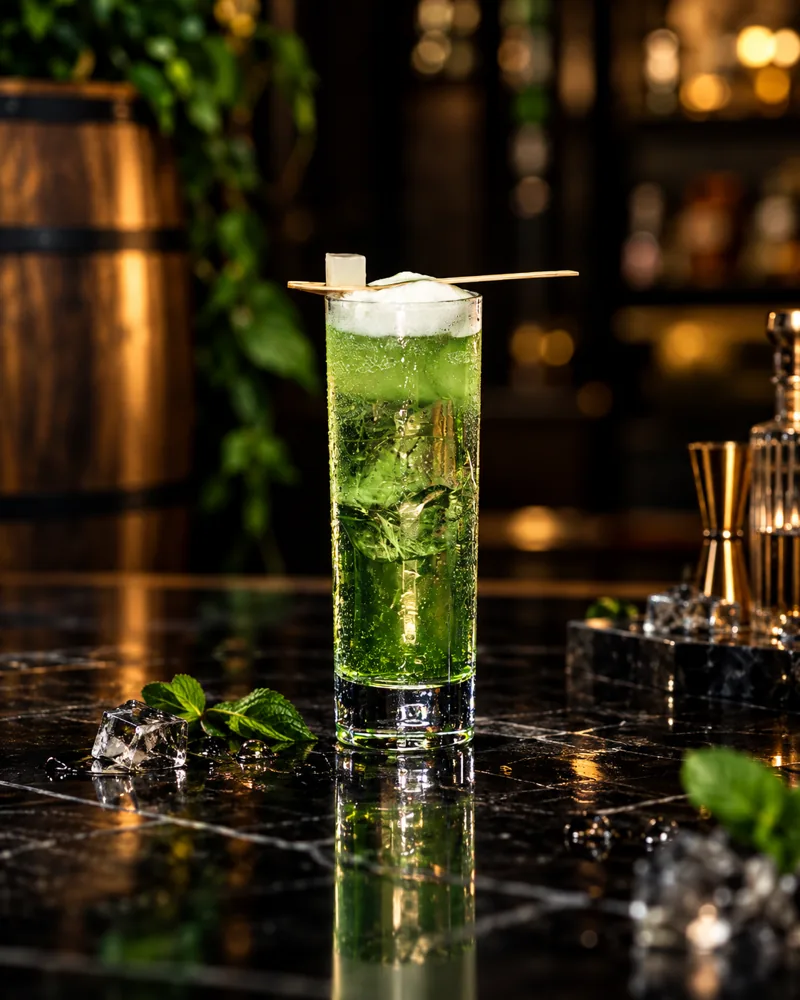
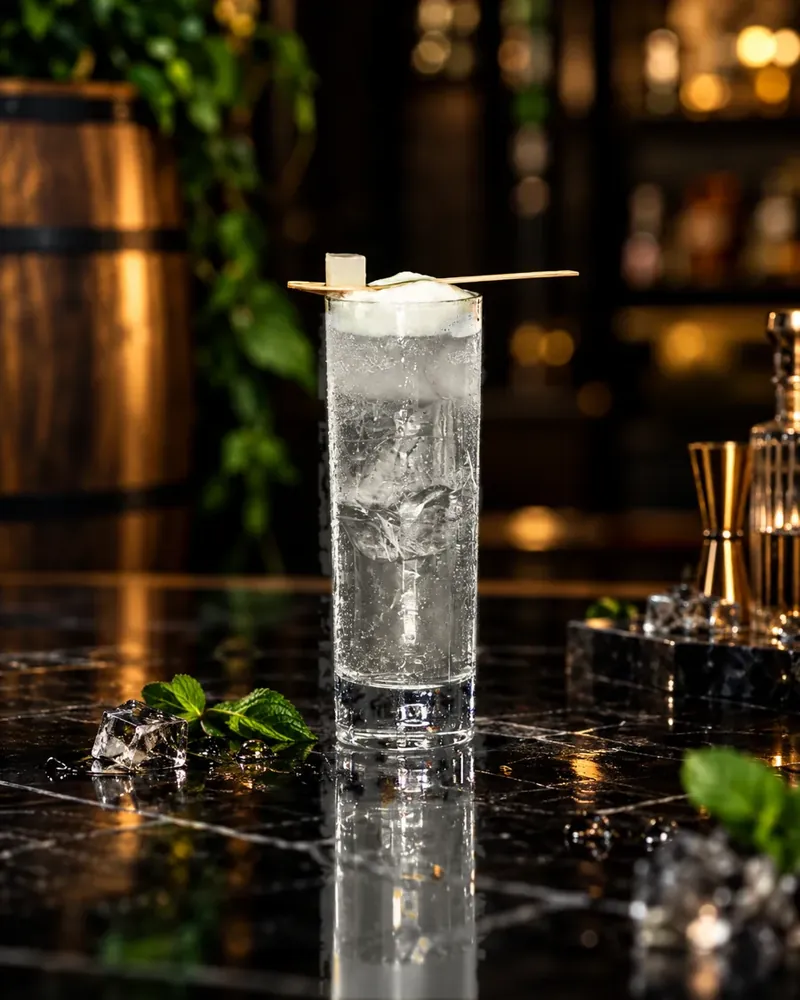
Drinks menu: real photos for Casa del Coco, Its Pine Honey, Highball Citrico and B-Positive
Claude-Session: https://claude.ai/code/session_01BSg6RDVT393FLFPGvqvnZV

Changed region(s): [[0.375, 0.31, 0.625, 1.0]]

diff --git a/menu/index.html b/menu/index.html
@@ -1193,6 +1193,11 @@ img[src*="heaven-mule"],img[src*="paloma-picante"]{object-fit:cover}
 .sq.dk .tileBox img[src*="heaven-mule"],.chip.pic.dk .cl img[src*="heaven-mule"],.sq.dk .tileBox img[src*="paloma-picante"],.chip.pic.dk .cl img[src*="paloma-picante"]{border-radius:10px}
 .ov .md .pic img#mdImg[src*="heaven-mule"],.ov .md .pic img#mdImg[src*="paloma-picante"]{width:100%!important;max-width:none!important;object-fit:cover!important;border-radius:18px!important}
 @media (max-width:900px){body[data-mode=drinks] .hero{padding-bottom:400px}body[data-mode=drinks] .hero .wrap{grid-template-columns:1fr}}
+/* drink photos (Casa del Coco, Pine Honey, Highball Citrico, B-Positive) */
+img[src*="casa-del-coco"],img[src*="pine-honey"],img[src*="highball-citrico"],img[src*="b-positive"]{object-fit:cover}
+.gl img[src*="casa-del-coco"],.gl img[src*="pine-honey"],.gl img[src*="highball-citrico"],.gl img[src*="b-positive"]{width:min(190px,100%);height:250px;border-radius:14px;box-shadow:0 24px 36px -22px rgba(0,0,0,.7)}
+.sq.dk .tileBox img[src*="casa-del-coco"],.chip.pic.dk .cl img[src*="casa-del-coco"],.sq.dk .tileBox img[src*="pine-honey"],.chip.pic.dk .cl img[src*="pine-honey"],.sq.dk .tileBox img[src*="highball-citrico"],.chip.pic.dk .cl img[src*="highball-citrico"],.sq.dk .tileBox img[src*="b-positive"],.chip.pic.dk .cl img[src*="b-positive"]{border-radius:10px}
+.ov .md .pic img#mdImg[src*="casa-del-coco"],.ov .md .pic img#mdImg[src*="pine-honey"],.ov .md .pic img#mdImg[src*="highball-citrico"],.ov .md .pic img#mdImg[src*="b-positive"]{width:100%!important;max-width:none!important;object-fit:cover!important;border-radius:18px!important}
 /* drinks hero photo slider */
 .hSlides,.hDots{display:none}
 body[data-mode=drinks] .hSlides{display:block;position:absolute;inset:0;z-index:0;overflow:hidden;pointer-events:none}
@@ -2613,7 +2618,9 @@ function glassSVG(v){
 Object.entries(DM).forEach(([k,list])=>list.forEach(d=>{d.img=glassSVG(d.spec); d.dk=1;}));
 (DM['Signature cocktails'].find(d=>d.n==='Heaven Mule')||{}).img='img/heaven-mule.webp?v=2'; (DM['Signature cocktails'].find(d=>d.n==='Heaven Mule')||{}).photo=1;(DM['Signature cocktails'].find(d=>d.n==='Heaven Mule')||{}).pos='50% 72%';
 Object.values(DM).forEach(l=>l.forEach(d=>{if(d.n==='Paloma Picante'){d.img='img/paloma-picante.webp?v=2';d.photo=1;d.pos='50% 36%'}}));
-Object.values(DM).forEach(l=>l.forEach(d=>{if(d.n==='Casa del Coco'){d.img='img/casa-del-coco.webp?v=1';d.photo=1;d.pos='50% 50%'}}));
+/* real drink photos */
+const DRINK_PHOTOS={'Casa del Coco':'casa-del-coco','Its Pine Honey':'pine-honey','Highball Citrico':'highball-citrico','B-Positive':'b-positive'};
+Object.values(DM).forEach(l=>l.forEach(d=>{const f=DRINK_PHOTOS[d.n]; if(f){d.img='img/'+f+'.webp?v=2';d.photo=1;d.pos='50% 50%'}}));
 
 const DATA = Object.assign({}, M, DM);
 const AL = {C:"Celery",G:"Gluten",D:"Dairy",S:"Shellfish",N:"Nuts",F:"Fish",E:"Egg",M:"Mustard",P:"Peanuts",SE:"Sesame",SO:"Soya",SUL:"Sulphites",V:"Vegetarian"};
